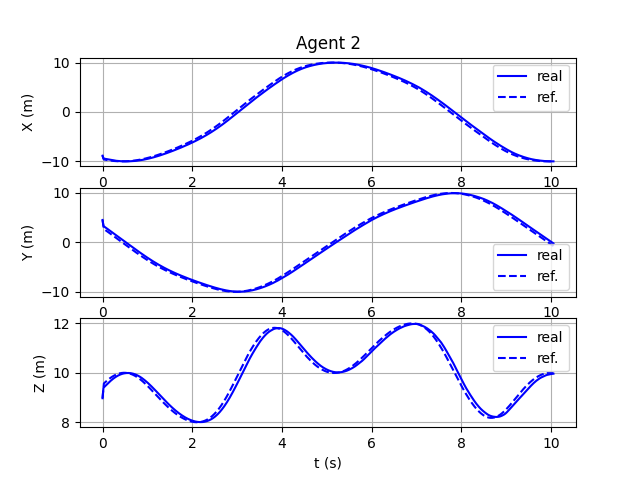
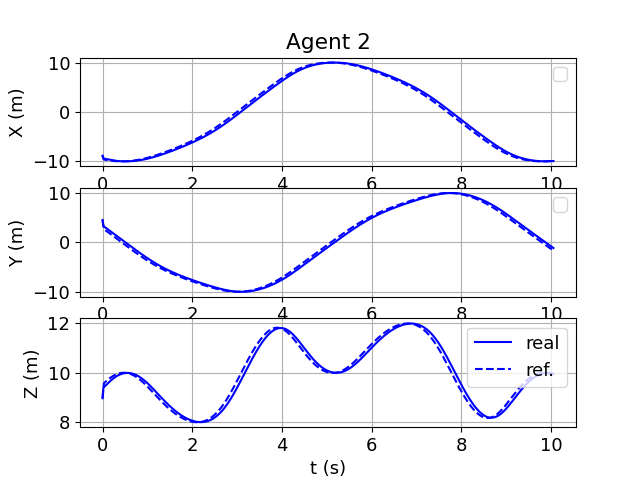
backup

diff --git a/finite_mpc_embedding.py b/finite_mpc_embedding.py
@@ -12,7 +12,7 @@ from scipy.linalg import expm, logm
 import matplotlib.pyplot as plt 
 from mpl_toolkits.mplot3d import Axes3D
 import matplotlib as mpl
-mpl.rcParams['text.usetex'] = True
+mpl.rcParams['text.usetex'] = False
 import os
 from icecream import ic
 import csv
@@ -382,8 +382,8 @@ class MPC_fixed_wing():
         self.wb_b_cont[:,i] = self.dC[:,:,i]@self.wr_r[:,i] - self.dU[3:6,i]
         self.wb_b_cont[:,i] = np.clip(self.wb_b_cont[:,i],-np.pi,np.pi)
         if self.noise:
-            self.f[:,i] = self.f[:,i]*np.random.normal(1,0.1,3)
-            self.wb_b_cont[:,i] = self.wb_b_cont[:,i]*np.random.normal(1,0.1,3)
+            self.f[:,i] = self.f[:,i]*np.random.normal(1,0.01,3)
+            self.wb_b_cont[:,i] = self.wb_b_cont[:,i]*np.random.normal(1,0.01,3)
         if i > 2:
             self.dwb_b_cont[:,i] = (self.wb_b_cont[:,i] - self.wb_b_cont[:,i-1])/self.T
         self.tau[:,i] = self.J@self.dwb_b_cont[:,i] + np.cross(self.wb_b_cont[:,i], self.J@self.wb_b_cont[:,i])
@@ -587,14 +587,14 @@ class MPC_fixed_wing():
         fig = plt.figure()
         plt.subplot(3, 1, 1)
         plt.title("Agent " + self.id)
-        plt.plot(self.t[:-self.Nh],self.X[6,:-self.Nh],label = "real", color = "blue")
-        plt.plot(self.t[:-self.Nh],self.ra_r[0,:-self.Nh],label = "ref.", linestyle='dashed', color = "blue")
+        plt.plot(self.t[:-self.Nh],self.X[6,:-self.Nh], color = "blue")
+        plt.plot(self.t[:-self.Nh],self.ra_r[0,:-self.Nh], linestyle='dashed', color = "blue")
         plt.ylabel('X (m)')
         plt.grid()
         plt.legend()
         plt.subplot(3, 1, 2)
-        plt.plot(self.t[:-self.Nh],self.X[7,:-self.Nh],label = "real", color = "blue")
-        plt.plot(self.t[:-self.Nh],self.ra_r[1,:-self.Nh],label = "ref.", linestyle='dashed', color = "blue")
+        plt.plot(self.t[:-self.Nh],self.X[7,:-self.Nh], color = "blue")
+        plt.plot(self.t[:-self.Nh],self.ra_r[1,:-self.Nh], linestyle='dashed', color = "blue")
         plt.ylabel("Y (m)")
         plt.grid()
         plt.legend()

diff --git a/fixed_wing_swarm.py b/fixed_wing_swarm.py
@@ -8,7 +8,10 @@ from icecream import ic
 import random
 import matplotlib as mpl
 mpl.rcParams['text.usetex'] = False
-
+plt.rcParams.update({
+    # 'font.family': 'Times New Roman',
+    'font.size': 13
+})
 
 figures_path = "/home/dimitria/fixed_wing/figures"
 r = 10
@@ -23,7 +26,7 @@ tactic = '' #circle, spiral, line
 n_agents = 3
 controllers = []
 for i in range(n_agents):
-    controllers.append(MPC_fixed_wing(t_max, t_min, r, T_p, str(i+1),figures_path, noise = True, save = False))
+    controllers.append(MPC_fixed_wing(t_max, t_min, r, T_p, str(i+1),figures_path, noise = True, save = True))
 Nh = controllers[0].Nh
 dt = controllers[0].T
 embedding = Embedding(r,phi_dot,k_phi,tactic,n_agents,dt)
@@ -54,7 +57,7 @@ for i in range(n_agents):
     controllers[i].references(0,target_r[:,i], target_v[:,i], target_a[:,i])
     controllers[i].set_initial_conditions(0)
 
-phi,target_r, target_v, target_a, phi_diff_new, dist = embedding.targets(target_r,target_v,phi,False)
+phi,target_r, target_v, target_a, phi_diff_new, dist = embedding.targets(target_r,target_v,phi,True)
 phi_diff[:,1] = phi_diff_new
 distances[:,1] = dist
 
@@ -112,7 +115,7 @@ fig = plt.figure(constrained_layout=True)
 plt.plot(np.rad2deg(phi_diff[0,:-Nh]), label='1-2',color='red')
 plt.plot(np.rad2deg(phi_diff[1,:-Nh]), label='1-3',color='blue')
 plt.plot(np.rad2deg(phi_diff[2,:-Nh]), label='2-3',color='black')
-plt.title('Angular separation between agents ')
+plt.title('Angular Separation Between the Agents ')
 plt.xlabel('t (s)')
 plt.ylabel('$\phi_{diff}$ (degrees)')
 plt.legend()
@@ -125,7 +128,7 @@ fig = plt.figure(constrained_layout=True)
 plt.plot(distances[0,:-Nh], label='1-2',color='red')
 plt.plot(distances[1,:-Nh], label='1-3',color='blue')
 plt.plot(distances[2,:-Nh], label='2-3',color='black')
-plt.title("Distance between agents")
+plt.title("Distance Between the Agents")
 plt.xlabel('t (s)')
 plt.ylabel('Distance (m)')
 plt.legend()
